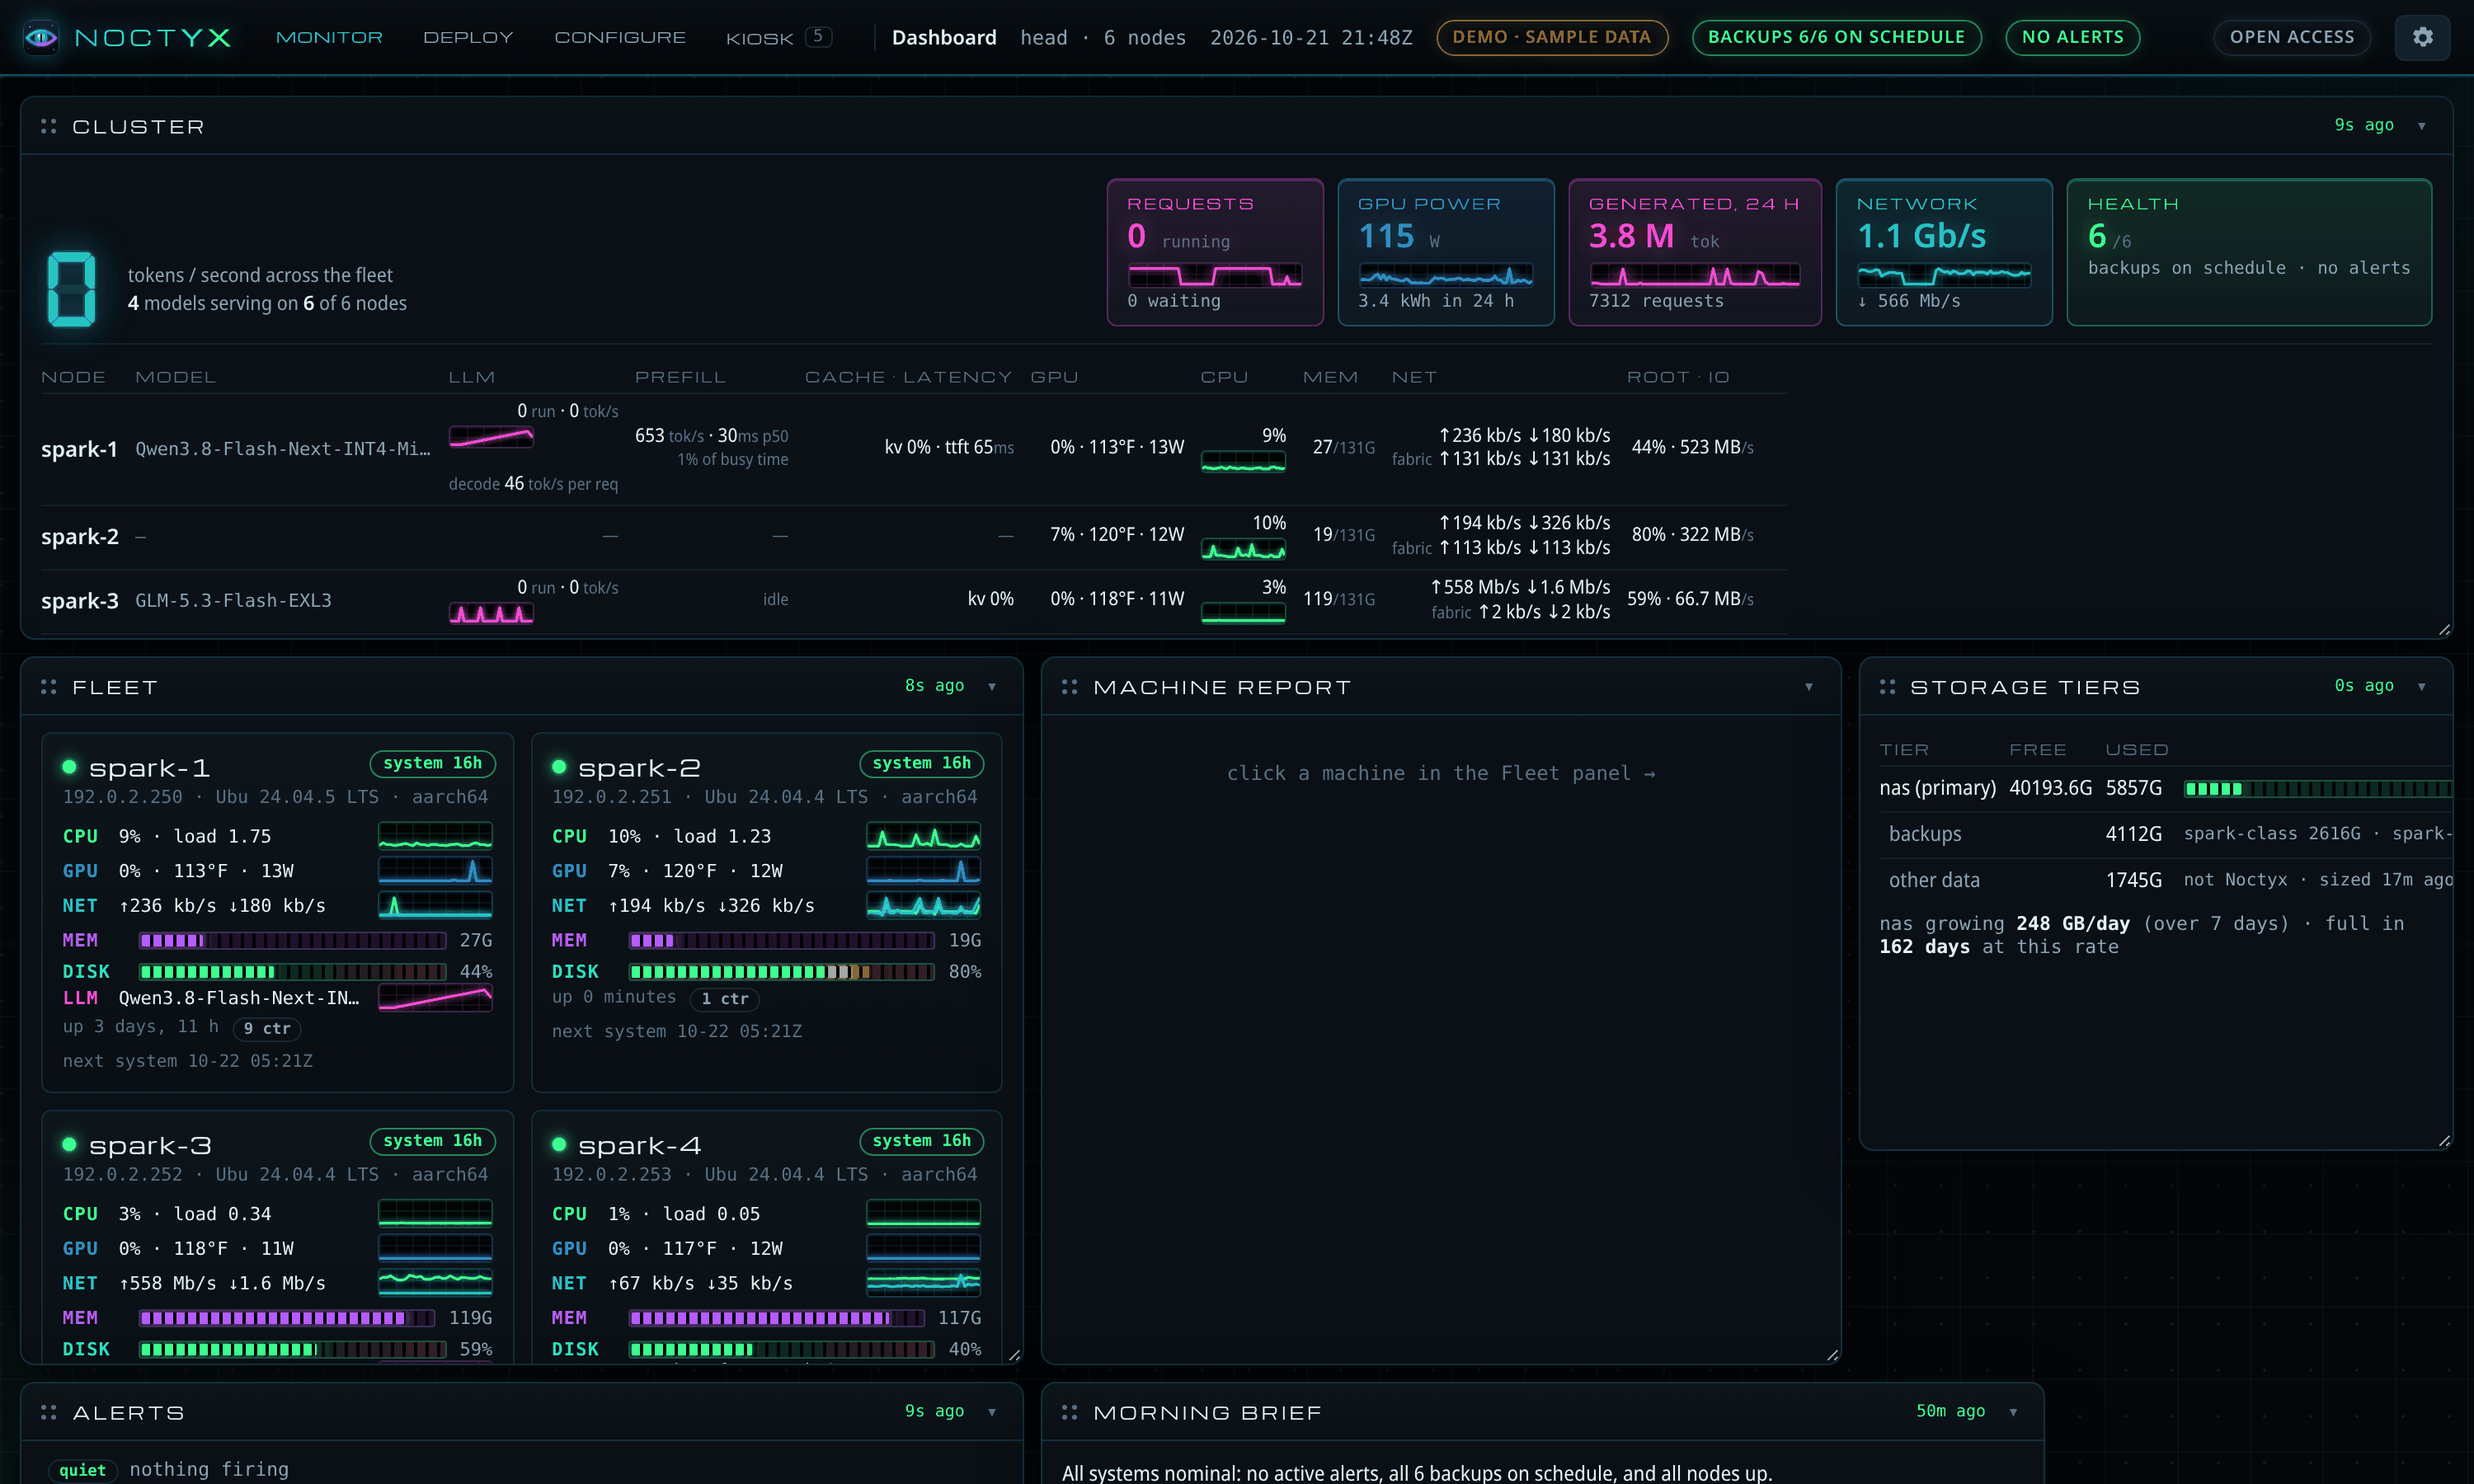
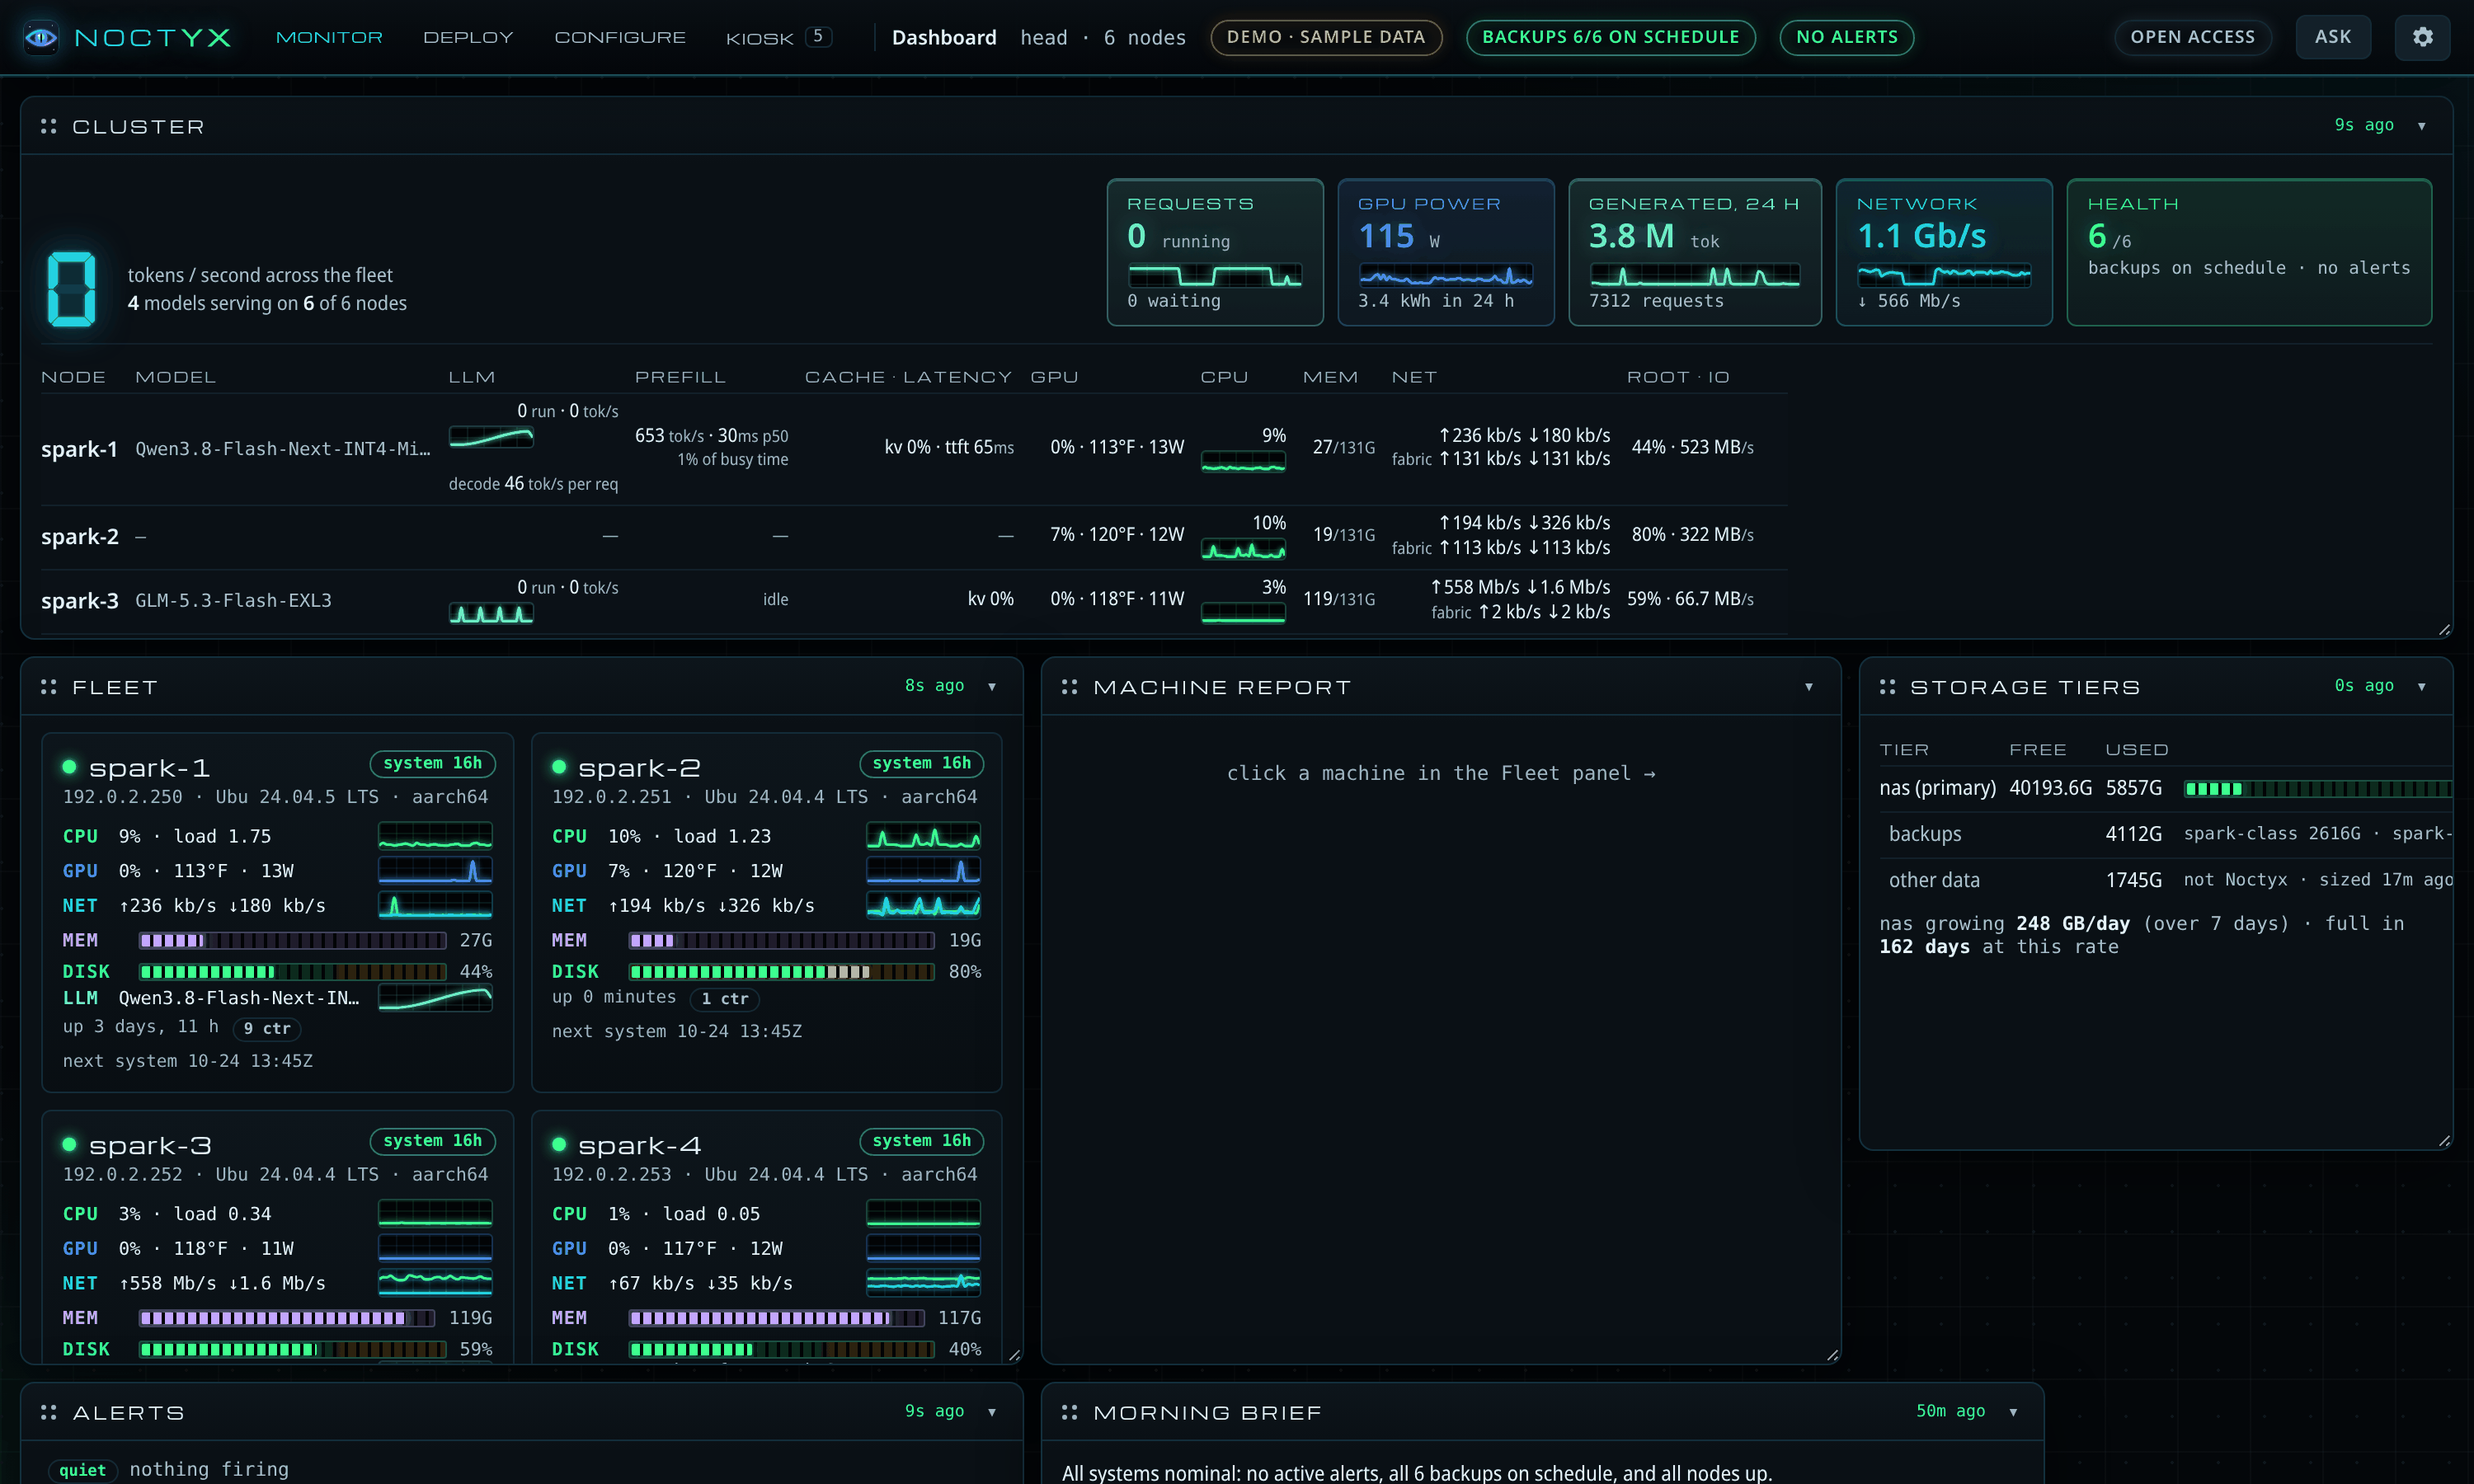
screenshots: retaken with the Ask button and the fitted header; a new one of the Ask drawer

diff --git a/tools/screenshots.py b/tools/screenshots.py
@@ -34,6 +34,7 @@ SHOTS = {
     "phosphor-kiosk": ("/kiosk", ["NXT.save({theme:'phosphor',mode:'dark'})", "location.reload()", "sleep:5"], None),
     **{f"_family-{v}": ("/kiosk", [f"NXT.save({{theme:'{v}',mode:'dark'}})", "location.reload()", "sleep:5"], None)
        for v in FAMILY},
+    "ask": ("/", ["sleep:3", "askOpen()", "sleep:1"], None),
     "about": ("/about", ["sleep:3"], None),
     "login": ("/login", ["sleep:1"], None),
 }

diff --git a/README.md b/README.md
@@ -47,7 +47,8 @@ Regenerate them with `python3 tools/screenshots.py`.
 | [![Kiosk](docs/screenshots/kiosk.png)](docs/screenshots/kiosk.png) **Kiosk.** A full-screen wall display: fleet tokens/s, GPU watts, backups, alerts, every slot and node. | [![Configuration](docs/screenshots/config.png)](docs/screenshots/config.png) **Configuration.** Backup policy per site and per host, databases found on each machine, retention, the mirror, the assistant. |
 | [![Settings](docs/screenshots/settings.png)](docs/screenshots/settings.png) **Settings drawer.** Fifteen themes plus your own colours, light / dark / system, °F / °C; kept in the browser or in your account. | [![Menus](docs/screenshots/menu.png)](docs/screenshots/menu.png) **Menus.** Monitor, Deploy, Configure, Kiosk; keys 1–5. |
 | [![Cluster](docs/screenshots/cluster.png)](docs/screenshots/cluster.png) **Cluster.** Schedules, snapshots, capacity and hygiene across the fleet. | [![Dashboard, Noctyx theme](docs/screenshots/dashboard.png)](docs/screenshots/dashboard.png) **The Noctyx theme.** The same dashboard in the classic navy and neon cyan. |
-| [![About](docs/screenshots/about.png)](docs/screenshots/about.png) **About.** Version, license, this site, links to the docs. | [![Sign-in](docs/screenshots/login.png)](docs/screenshots/login.png) **Sign-in.** Accounts with viewer, operator and admin roles. |
+| [![Ask Noctyx](docs/screenshots/ask.png)](docs/screenshots/ask.png) **Ask Noctyx.** Questions about the cluster, answered by the site's LLM after it looks at the live data; it only looks, and says what would change things. | [![About](docs/screenshots/about.png)](docs/screenshots/about.png) **About.** Version, license, this site, links to the docs. |
+| [![Sign-in](docs/screenshots/login.png)](docs/screenshots/login.png) **Sign-in.** Accounts with viewer, operator and admin roles. | |
 
 ## Features
 
